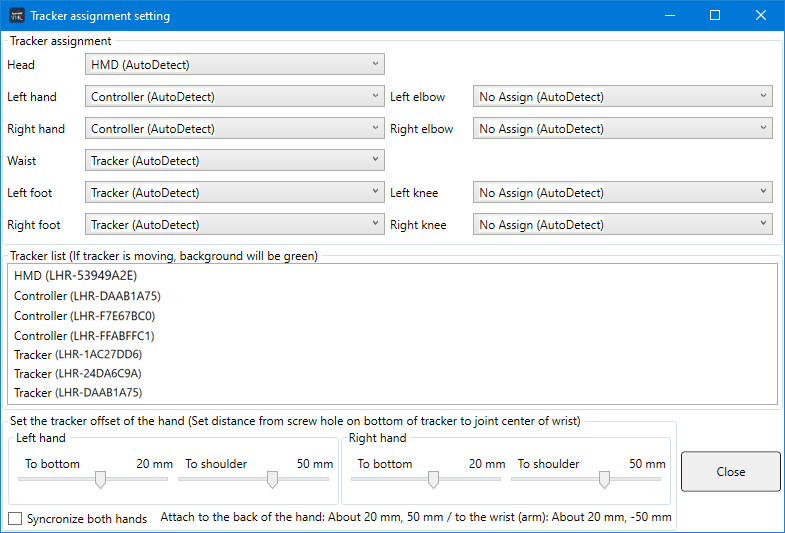
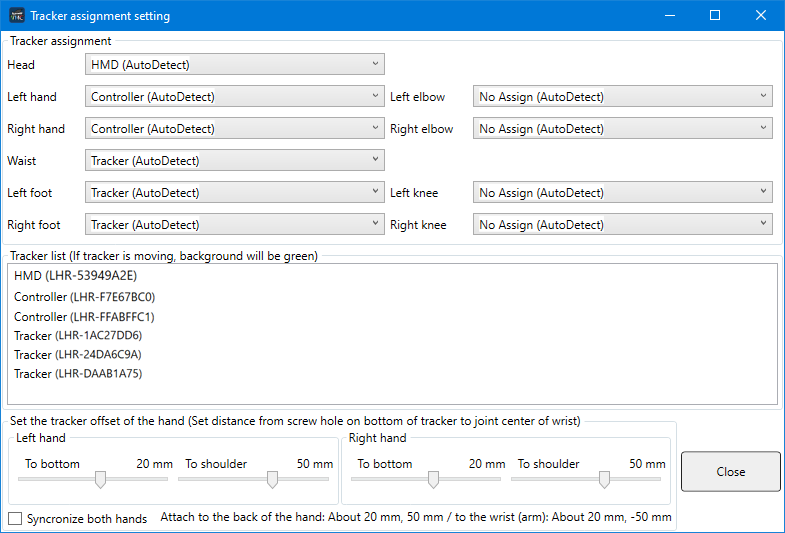
Updated the Basic Operation guide and its images. Renamed the guide to is English equivalent.

Changed region(s): [[0.0, 0.5403, 0.214, 0.7505]]

diff --git a/docs/_posts/2018-10-22-Basic Operation.md b/docs/_posts/2018-10-22-Basic Operation.md
@@ -74,30 +74,6 @@ By default everything is set to AutoDetect.
 
 If autodetect doesn't work, manually assign the trackers to each body part.  If you move the tracker it will be highlighted in green allowing you to assign them one by one.  Set the body parts that do not have trackers to "No Assign."
 
-![Manual Tracker Assignment](../images/manual/1-16.png)
-
-Trackers can still be recognized as a controller and will need to be disabled in SteamVR. Put the headset on, open the SteamVR menu and press the Settings button.
-
-![SteamVR Settings 1](../images/manual/1-17.png)
-
-Go to Controllers and then press Manage Vive Trackers.
-
-![SteamVR Settings 2](../images/manual/1-18.png)
-
-A list of trackers is displayed.  Click on the ones marked as Held in Hand.
-
-![SteamVR Settings 3](../images/manual/1-19.png)
-
-Select Disabled from the drop down list.
-
-![SteamVR Settings 4](../images/manual/1-20.png)
-
-Once all the trackers are set to disabled make sure to close the Steam VR menu by pressing the Steam button at the bottom.  You cannot continue with this menu open.
-
-![SteamVR Settings 5](../images/manual/1-21.png)
-
-If you set any trackers to disabled you will have to restart Virtual Motion Capture.  Restart and open Tracker assignment settings.  If the settings are correct, except for special cases, you should see only two controllers and the rest will be recognized as trackers.
-
 ![Correct Trackers Listed](../images/manual/1-22.png)
 
 When all the trackers are assigned, close the Settings screen and calibrate again.  If the calibration is successful, the whole body will move.
